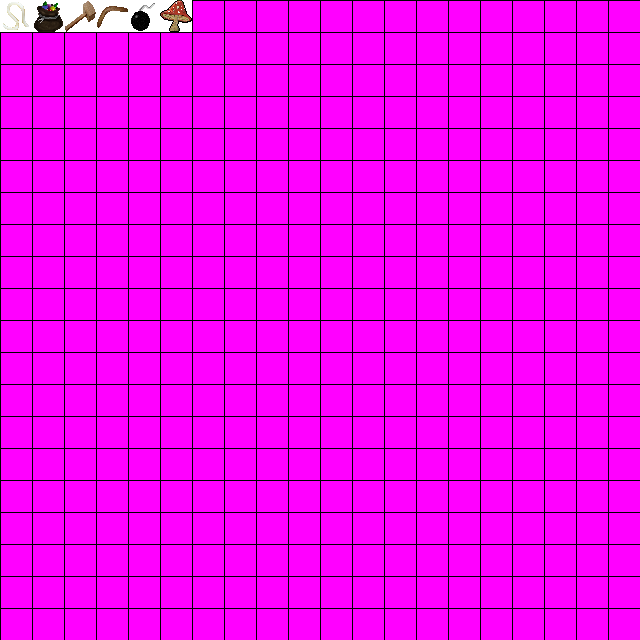
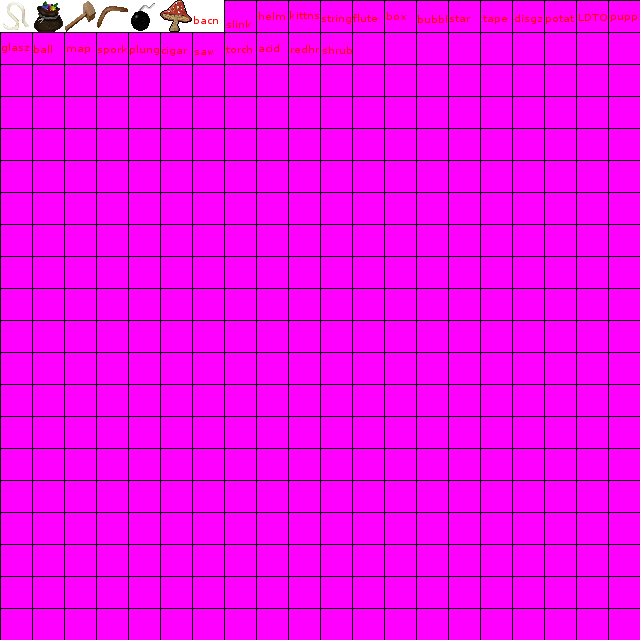
Placeholders for other item textures

diff --git a/skeleton/src/com/gamedev/ld27/Assets.java b/skeleton/src/com/gamedev/ld27/Assets.java
@@ -23,12 +23,38 @@ public class Assets {
 	public static TextureRegion[][] digits;
 	public static TextureRegion[][] symbols;
 	
+	// Key items ------------------------------
 	public static TextureRegion wetNoodle;
 	public static TextureRegion bagOfJewels;
 	public static TextureRegion hammer;
 	public static TextureRegion boomerang;
 	public static TextureRegion bombs;
-	public static TextureRegion mushroom;
+	public static TextureRegion mushroom;	
+	public static TextureRegion bacon;
+	public static TextureRegion slinky;
+	public static TextureRegion helmet;
+	public static TextureRegion bagOfKittens;
+	public static TextureRegion sillyString;
+	public static TextureRegion flute;
+	public static TextureRegion cardboardBox;
+	public static TextureRegion bubbleWrap;
+	public static TextureRegion star;
+	public static TextureRegion ductTape;
+	public static TextureRegion disguise;
+	public static TextureRegion potatoCannon;
+	public static TextureRegion offensiveTower;
+	public static TextureRegion boxOfPuppies;
+	public static TextureRegion eyeglasses;
+	public static TextureRegion bouncyBall;
+	public static TextureRegion map;
+	public static TextureRegion spork;
+	public static TextureRegion plunger;
+	public static TextureRegion explodingCigar;
+	public static TextureRegion hacksaw;
+	public static TextureRegion torch;
+	public static TextureRegion bottleOfAcid;
+	public static TextureRegion redHerring;
+	public static TextureRegion aShrubbery;	
 
 	public static void load() {
 		random = new Random();
@@ -47,13 +73,39 @@ public class Assets {
 		mapTiles = new Texture(Gdx.files.internal("data/maptiles.png"));
 		mapTiles .setFilter(TextureFilter.Nearest, TextureFilter.Nearest);
 		
-		TextureRegion[][] itemRow = splitAndGet(itemsheet, 32, 32, 0, 0, 20, 1);
-		wetNoodle   = itemRow[0][0];
-		bagOfJewels = itemRow[0][1];
-		hammer      = itemRow[0][2];
-		boomerang   = itemRow[0][3];
-		bombs       = itemRow[0][4];
-		mushroom    = itemRow[0][5];		
+		// Key items ------------------------------
+		TextureRegion[][] itemRow = splitAndGet(itemsheet, 32, 32, 0, 0, 20, 2);
+		wetNoodle      = itemRow[0][0];
+		bagOfJewels    = itemRow[0][1];
+		hammer         = itemRow[0][2];
+		boomerang      = itemRow[0][3];
+		bombs          = itemRow[0][4];
+		mushroom       = itemRow[0][5];		
+		bacon          = itemRow[0][6];
+		slinky         = itemRow[0][7];
+		helmet         = itemRow[0][8];
+		bagOfKittens   = itemRow[0][9];
+		sillyString    = itemRow[0][10];
+		flute          = itemRow[0][11];
+		cardboardBox   = itemRow[0][12];
+		bubbleWrap     = itemRow[0][13];
+		star           = itemRow[0][14];
+		ductTape       = itemRow[0][15];
+		disguise       = itemRow[0][16];
+		potatoCannon   = itemRow[0][17];
+		offensiveTower = itemRow[0][18];
+		boxOfPuppies   = itemRow[0][19];
+		eyeglasses     = itemRow[1][0];
+		bouncyBall     = itemRow[1][1];
+		map            = itemRow[1][2];
+		spork          = itemRow[1][3];
+		plunger        = itemRow[1][4];
+		explodingCigar = itemRow[1][5];
+		hacksaw        = itemRow[1][6];
+		torch          = itemRow[1][7];
+		bottleOfAcid   = itemRow[1][8];
+		redHerring     = itemRow[1][9];
+		aShrubbery     = itemRow[1][10];
 		
 		letters = splitAndGet(spritesheet, 8, 8, 0, 30, 26, 1);
 		digits  = splitAndGet(spritesheet, 8, 8, 0, 31, 10, 1);
@@ -61,6 +113,7 @@ public class Assets {
 	}
 
 	public static void dispose() {
+		itemsheet.dispose();
 		mapTiles.dispose();
 		titleBackground.dispose();
 		spritesheet.dispose();
